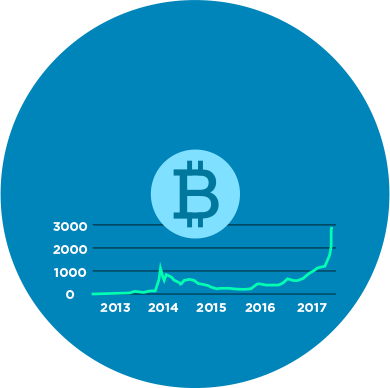
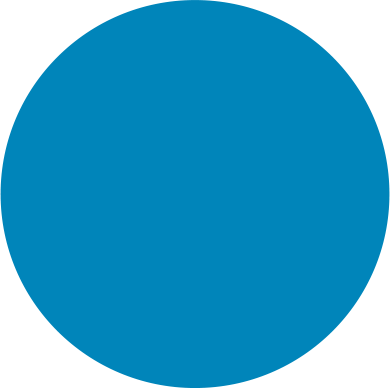
added dynamic bitcoin data

Changed region(s): [[0.1231, 0.3711, 0.8615, 0.8041]]

diff --git a/_includes/js/global.js b/_includes/js/global.js
@@ -1,6 +1,95 @@
-$('.blackhole').each(function () {
-    blackhole(this);
-});
+
+/** START: Helpers **/
+Date.prototype.yyyymmdd = function () {
+    var mm = this.getMonth() + 1; // getMonth() is zero-based
+    var dd = this.getDate();
+
+    return [this.getFullYear(),
+            (mm > 9 ? '' : '0') + mm,
+            (dd > 9 ? '' : '0') + dd
+    ].join('-');
+};
+/** END: Helpers **/
+
+/** START: Graphs **/
+function initGraphs() {
+    function initPowerGraph() {
+        var powerGraph = $('#power-bitcoin canvas');
+        var ctx = powerGraph.get(0).getContext("2d");
+
+
+        var powerChart = new Chart(ctx, {
+            type: 'line',
+            defaults: {
+                global: {
+                    elements: {
+                        line: {
+                            tension: 0
+                        }
+                    }
+                }
+            },
+            data: {
+                labels: ["2013", "2014", "2015", "2016", "2017"],
+                datasets: [{
+                    label: '',
+                    data: [bitcoinYearly['2013'], bitcoinYearly['2014'], bitcoinYearly['2015'], bitcoinYearly['2016'], bitcoinYearly['2017']],
+                    backgroundColor: [
+                        'rgba(255, 99, 132, 0)'
+                    ],
+                    borderColor: [
+                        'rgba(43,253,180,1)'
+                    ],
+                    borderWidth: 1,
+                    fill: false,
+                    pointRadius: 0,
+                    lineTension: 0
+                }]
+            },
+            options: {
+                responsive: true,
+                maintainAspectRatio: false,
+                bezierCurve: false,
+                elements: {
+                    line: {
+                        tension: 0
+                    }
+                },
+                legend: {
+                    display: false
+                },
+                scales: {
+                    yAxes: [{
+                        ticks: {
+                            beginAtZero: true,
+                            fontColor: '#fff'
+                        }
+                    }],
+                    xAxes: [{
+                        ticks: {
+                            beginAtZero: true,
+                            fontColor: '#fff'
+                        }
+                    }]
+                },
+                tooltips: {
+                    enabled: false
+                }
+            }
+        });
+        //powerChart.canvas.parentNode.style.height = '95px';
+        //powerChart.canvas.parentNode.style.width = '284px';
+    }
+
+    function init() {
+        initPowerGraph();
+    }
+
+    init();
+}
+/** END: Graphs **/
+
+/** START: Blackhole buttons for menu page **/
 
 function blackhole(element) {
     var debugThisFile = true;
@@ -190,7 +279,8 @@ function blackhole(element) {
         currentTime = (now - startTime) / 50;
 
         context.fillStyle = 'rgba(0,42,56,0.2)'; // somewhat clear the context, this way there will be trails behind the stars 
-        context.fillRect(0, 0, cw, ch);
+        //context.fillRect(0, 0, cw, ch);
+        context.clearRect(0, 0, cw, ch);
 
         for (var i = 0; i < stars.length; i++) {  // For each star
             if (stars[i] != stars) {
@@ -216,3 +306,90 @@ function blackhole(element) {
     }
     init();
 }
+/** END: Blackhole buttons for menu page **/
+
+/** START: Read Bitcoin Data **/
+var bitcoinYearly = {};
+function readBitcoinData(maincallback) {
+    var currentPrice = 0;
+
+    function getCurrentPrice() {
+        var priceField = $('[data-name="worth"] .content_img_box p');
+        if (priceField.length) {
+            priceField.html('$' + currentPrice.toFixed(2));
+        }
+    }
+
+    function setCurrentPrice(callback) {
+        var url = 'http://api.coindesk.com/v1/bpi/currentprice/USD.json';
+        $.getJSON(url, function (data) {
+            currentPrice = data.bpi.USD.rate_float;
+            getCurrentPrice();
+            if (typeof callback === 'function') {
+                callback();
+            }
+
+        });
+    }
+
+    function setYearlyPrice(callback) {
+        var date = new Date();
+        var today = date.yyyymmdd();
+        var url = 'http://api.coindesk.com/v1/bpi/historical/close.json?start=2013-01-01&end=' + today;
+        
+
+        // In case you are wondering why I don't just use this to get the current price as well,
+        // the historical endpoint doesn't return the current price, only yesterday's price.
+        $.getJSON(url, function (data) {
+            bitcoinYearly = {
+                '2013': data.bpi['2013-01-01'].toFixed(2),
+                '2014': data.bpi['2014-01-01'].toFixed(2),
+                '2015': data.bpi['2015-01-01'].toFixed(2),
+                '2016': data.bpi['2016-01-01'].toFixed(2),
+                '2017': currentPrice.toFixed(2)
+            }
+            if (typeof callback === 'function') {
+                callback();
+            }
+        });
+
+    }
+
+    function init() {
+        if (currentPrice == 0) {
+            setCurrentPrice(function () {
+                setYearlyPrice(maincallback);
+            });
+        }
+    }
+
+    init();
+}
+/** END: Read Bitcoin Data **/
+
+function initBlocksat() {
+
+    function init() {
+        var curPage = $('body').data('page');
+        curPage = (typeof curPage === 'undefined') ? '' : curPage;
+
+        // Let's only init functions that we actually need on the page, and not for every page.
+        switch(curPage) {
+            case 'menu':
+                $('.blackhole').each(function () {
+                    blackhole(this);
+                });
+                break;
+            case 'bitcoin':
+                readBitcoinData(function () {
+                    initGraphs();
+                });
+                break;
+        }
+
+
+    }
+
+    init();
+}
+initBlocksat();

diff --git a/_sass/_global.scss b/_sass/_global.scss
@@ -321,6 +321,23 @@ p {
         }
     }
 }
+/** END: Content Pages**/
+
+/** START: Power of Bitcoin Page **/
+#power-bitcoin {
+    position: absolute;
+    top: 270px;
+    left: 45px;
+    width: 298px;
+    height: 94px;
+}
+.bitcoin_symbol {
+    position: absolute;
+    top: 199px;
+    left: 151px;
+    z-index: 2;
+}
+/** END: Power of Bitcoin Page **/
 
 /** START: Entry Pages **/
 [data-layout="bare"] .tmpl-wrap {
@@ -416,6 +433,7 @@ p {
 .crashcourse {
     position: relative;
     width: 100%;
+    margin-bottom: 100px;
     padding: 60px 0 50px;
     background: rgba(14,27,37,.5);
 }
@@ -423,7 +441,9 @@ p {
     margin-bottom: 60px;
     text-align: center;
 }
-.menu-crashcourse { text-align: center; }
+.menu-crashcourse {
+    text-align: center;
+}
 .menu-crashcourse ul {}
 .menu-crashcourse li {
     display: inline;
@@ -437,11 +457,46 @@ p {
 .menu-crashcourse a {
     color: $brand-tertiary;
 
+    p {
+        display: inline-block;
+        margin: 0 0 0 20px;
+        padding-top: 16px;
+        font-size: 2.8rem;
+        vertical-align: top;
+    }
+
     &:hover {
         text-decoration: none;
         color: white;
     }
 }
+.menu-crashcourse li:last-child p {
+        padding-top: 34px;
+}
+.bare-foot {
+    text-align: center;
+}
+.bare-nav {
+    padding-bottom: 70px;
+
+    li {
+        display: inline;
+        font-size: 2.8rem;
+        font-weight: 600;
+    }
+    li + li {
+        margin-left: 70px;
+    }
+    a {
+        color: $brand-tertiary;
+
+        &:hover {
+            text-decoration: none;
+            color: white;
+        }
+    }
+}
+
 
 .sprite-cc {
     display: inline-block;
@@ -474,6 +529,14 @@ p {
         margin-bottom: 20px;
     }
     .landing-nav li + li {
+        margin-left: 0;
+    }
+    .menu-crashcourse li {
+        float: none;
+        display: block;
+        margin: 0 auto;
+    }
+    .menu-crashcourse li + li {
         margin-left: 0;
     }
 }

diff --git a/menu.html b/menu.html
@@ -2,7 +2,7 @@
 layout: bare
 title: Menu
 head_bg: images/landing_bg.jpg
-showfoot: true
+showfoot: false
 shownav: true
 id: menu
 containerclass: nocontainer
@@ -48,9 +48,9 @@ jsarr:
             <h3>New to Bitcoin? We created a simple Crash Course on what you&rsquo;ve been missing.</h3>
             <nav class="menu-crashcourse">
                 <ul>
-                    <li><a href="{{ site.base_path }}/power" title="The Power of Bitcoin"><span class="sprite-cc sprite-cc-power"></span>THE POWER<br/>OF BITCOIN</a></li>
-                    <li><a href="{{ site.base_path }}/power" title="The Bitcoin Network"><span class="sprite-cc sprite-cc-network"></span>THE BITCOIN<br/>NETWORK</a></li>
-                    <li><a href="{{ site.base_path }}/power" title="Blockchain"><span class="sprite-cc sprite-cc-blockchain"></span>BLOCKCHAIN</a></li>
+                    <li><a href="{{ site.base_path }}/power" title="The Power of Bitcoin"><span class="sprite-cc sprite-cc-power"></span><p>THE POWER<br/>OF BITCOIN</p></a></li>
+                    <li><a href="{{ site.base_path }}/power" title="The Bitcoin Network"><span class="sprite-cc sprite-cc-network"></span><p>THE BITCOIN<br/>NETWORK</p></a></li>
+                    <li><a href="{{ site.base_path }}/power" title="Blockchain"><span class="sprite-cc sprite-cc-blockchain"></span><p>BLOCKCHAIN</p></a></li>
                 </ul>
             </nav>
         </div>

diff --git a/power.html b/power.html
@@ -6,6 +6,7 @@ description: Bitcoin is the first decentralized cryptocurrency that bypasses ban
 yt_url: https://www.youtube.com/embed/OyQ5EbOEXoY?rel=0&amp;showinfo=0
 head_bg: images/bitcoin_head.png
 id: bitcoin
+showfoot: true
 foot_descr: Find out what makes <br/>Bitcoin so secure.
 jsarr:
 - js/ScrollTrigger.min.js
@@ -21,6 +22,8 @@ jsarr:
         <img class="content-img" src="{{ site.base_path }}/{{ bitcoin.image_path }}" alt="{{ bitcoin.title }}" />
     {% if bitcoin.image_txt %}
         <p>$2963.34</p>
+        <div id="power-bitcoin"><canvas width="200" height="95"></canvas></div>
+        <img class="bitcoin_symbol" src="{{ site.base_path }}/{{ bitcoin.bitcoin_symbol }}" alt="" />
     </div>
     {% endif %}
 {% if bitcoin.bot_pic %}

diff --git a/_layouts/default.html b/_layouts/default.html
@@ -22,11 +22,12 @@
         <div id="main" role="main" class="{% if page.containerclass %}{{ page.containerclass }}{% else %}container{% endif %}">
             {{ content }}
         </div>
-        {% if page.showfoot == "false" %}
+        {% if page.showfoot == true %}
         {% include footer.html %}
         {% endif %}
     </div>
     <script src="https://code.jquery.com/jquery-3.2.1.min.js"></script>
+    <script src="https://cdnjs.cloudflare.com/ajax/libs/Chart.js/2.6.0/Chart.bundle.min.js"></script>
 {% if page.jsarr %}
     {% for js in page.jsarr %}
         <script type="text/javascript">

diff --git a/index.html b/index.html
@@ -9,7 +9,7 @@ id: index
     <h1>{{ page.title }}</h1>
     <p>At vero eos et accusamus et iusto odio digni ssim os ducimus qui blan ditiis prae sentium volupta tum dsfdel eniti atque.</p>
     <ul class="landing-nav">
-        <li><a class="btn-rnd-lg" href="#" title="Start Exploring">START EXPLORING</a></li>
+        <li><a class="btn-rnd-lg" href="{{ site.base_path }}/menu" title="Start Exploring">START EXPLORING</a></li>
         <li><a class="btn-rnd-lg" href="#" title="Live Interactive">LIVE INTERACTIVE</a></li>
     </ul>
 </section>

diff --git a/_layouts/bare.html b/_layouts/bare.html
@@ -8,9 +8,9 @@ layout: default
     <div class="entry">
         {{ content }}
     </div>
-    <div class="content-foot">
+    <div class="bare-foot">
         {% if page.shownav %}
-        <ul>
+        <ul class="bare-nav">
             <li><a href="#" title="Blog">Blog</a></li>
             <li><a href="#" title="Press">Press</a></li>
         </ul>

diff --git a/_bitcoin/worth.md b/_bitcoin/worth.md
@@ -3,6 +3,7 @@ name: worth
 title: What's It Worth
 image_path: images/worth.png
 bot_pic: images/satpic.png
+bitcoin_symbol: images/bitcoin_symbol.png
 image_txt: something
 ---
 As with any currency, the value of bitcoin is always changing.  Over time, more and more people have begun using bitcoin which has caused it to significantly increase in value.  However, to better understand the value of bitcoin, we must first ask: why do we value things differently?
